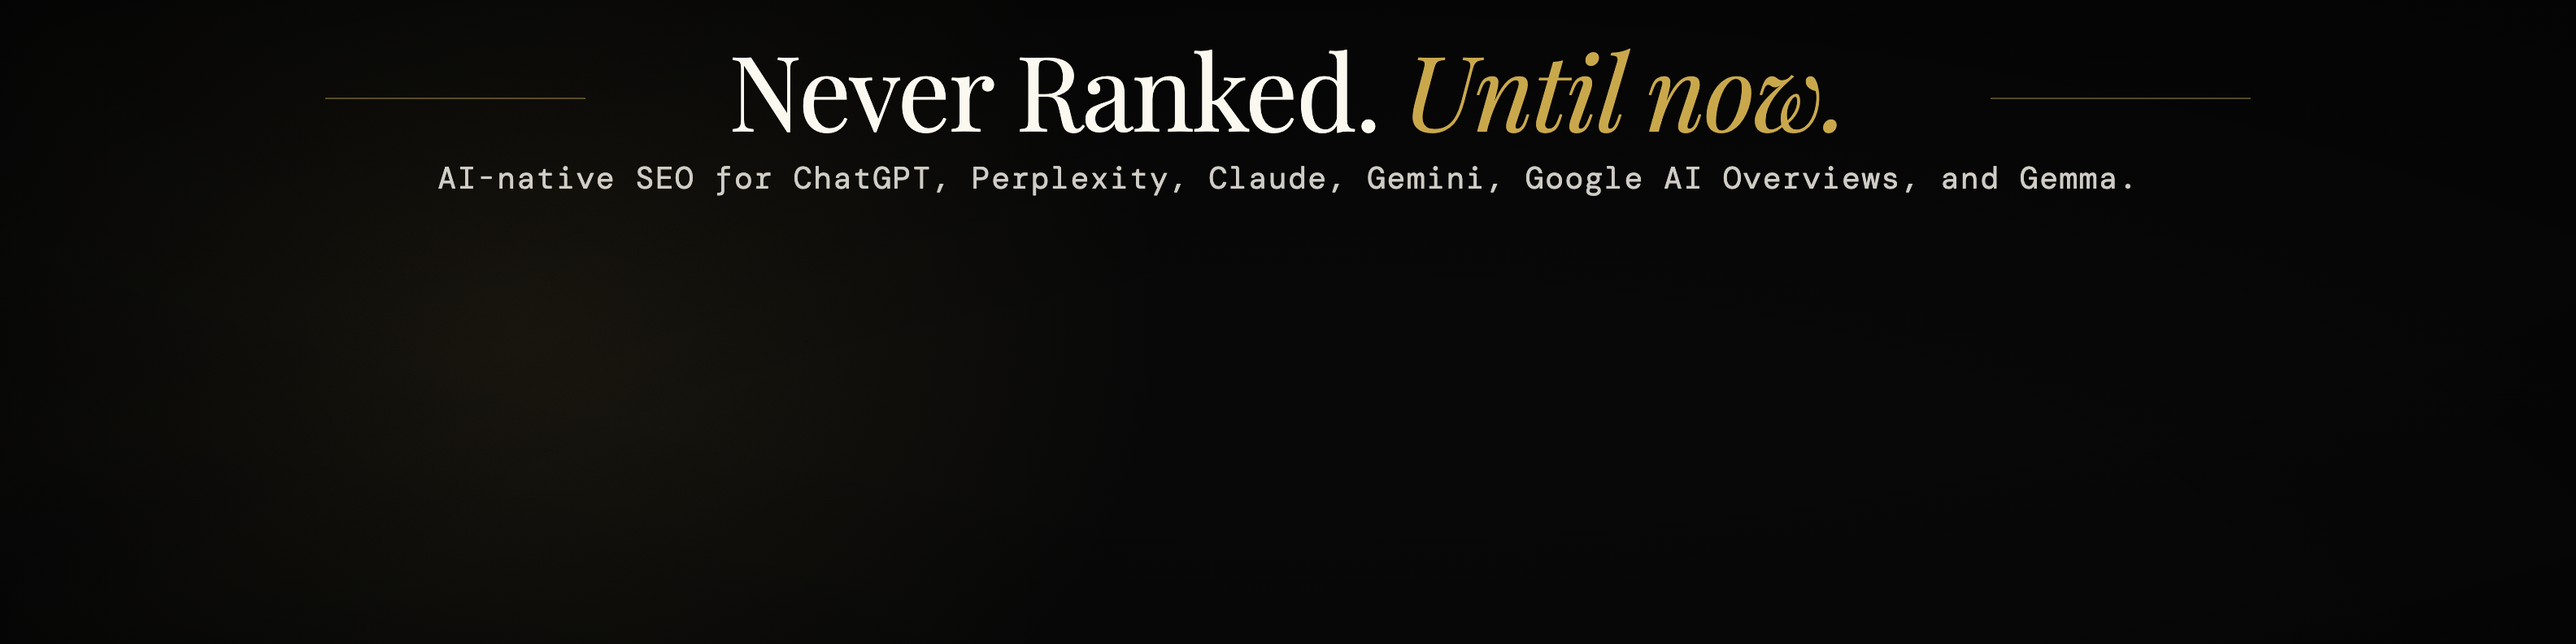
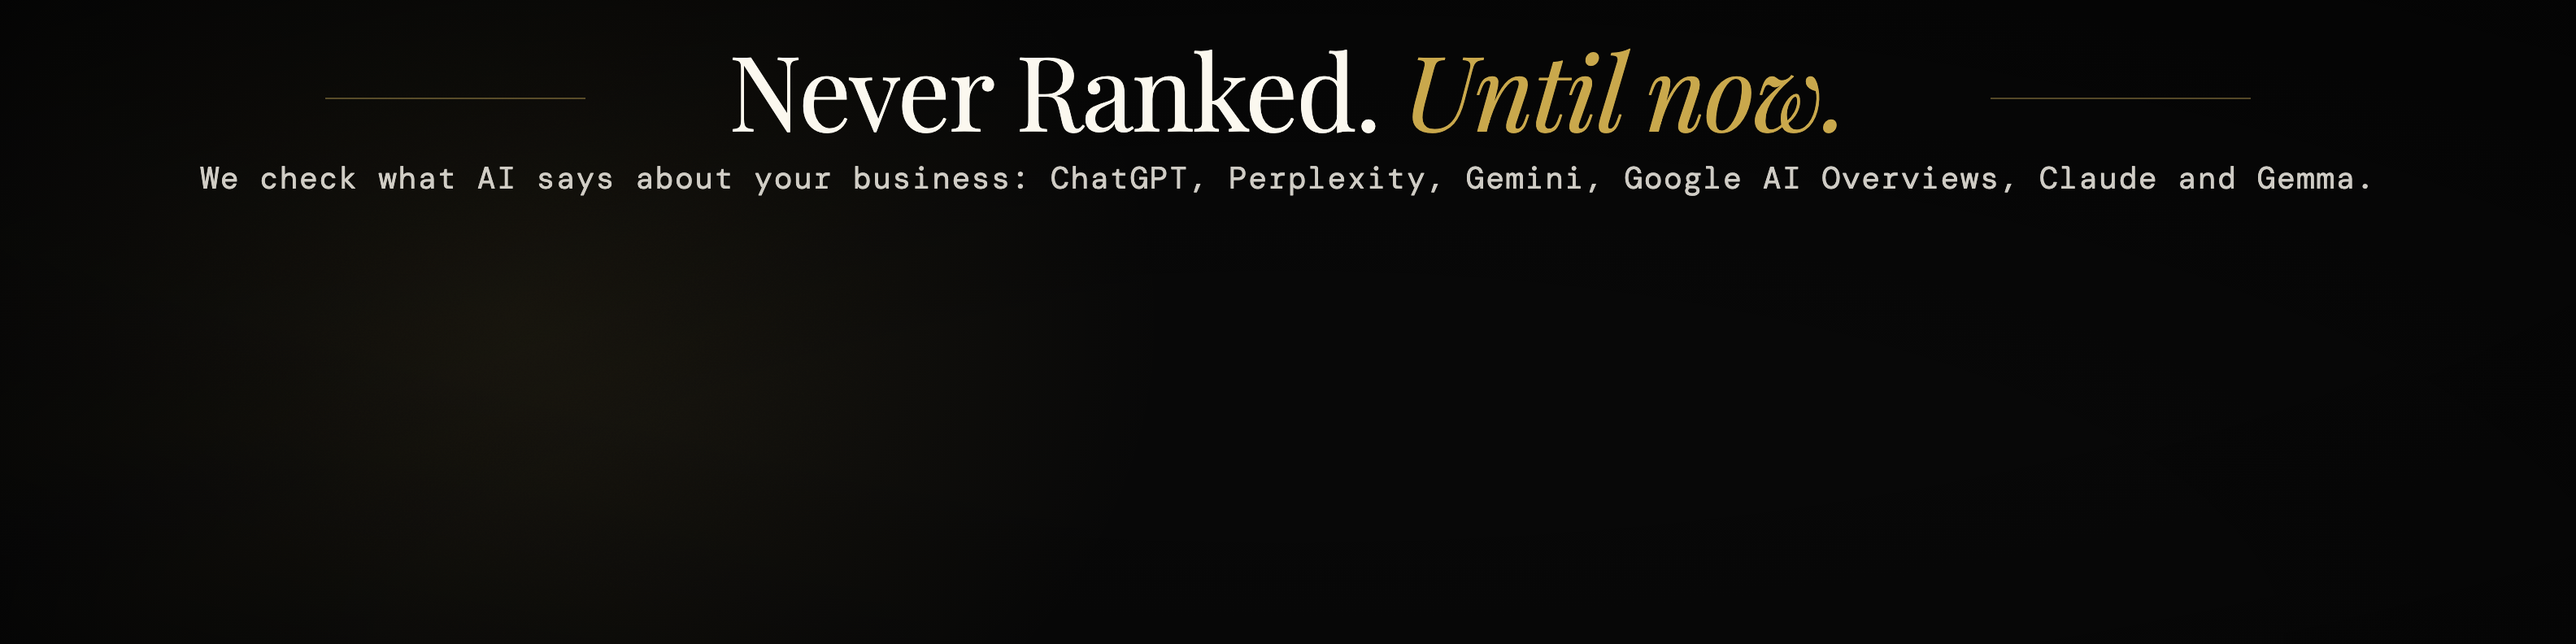
LinkedIn cover: say what we do (check what AI says), drop "AI-native SEO" (#398)
The uploaded banner still read "AI-native SEO for ... Microsoft Copilot ...".
Copilot was retired 2026-08-22 and NeverRanked measures, it does not do SEO.

Changed region(s): [[0.0625, 0.2424, 0.9375, 0.303]]

diff --git a/linkedin/cover-source.html b/linkedin/cover-source.html
@@ -103,7 +103,7 @@
 
   <div class="headline">
     <h1 class="h1">Never Ranked. <span class="italic">Until now.</span></h1>
-    <p class="sub">AI-native SEO for ChatGPT, Perplexity, Claude, Gemini, Google AI Overviews, and Gemma.</p>
+    <p class="sub">We check what AI says about your business: ChatGPT, Perplexity, Gemini, Google AI Overviews, Claude and Gemma.</p>
   </div>
 
   <div class="vignette"></div>
